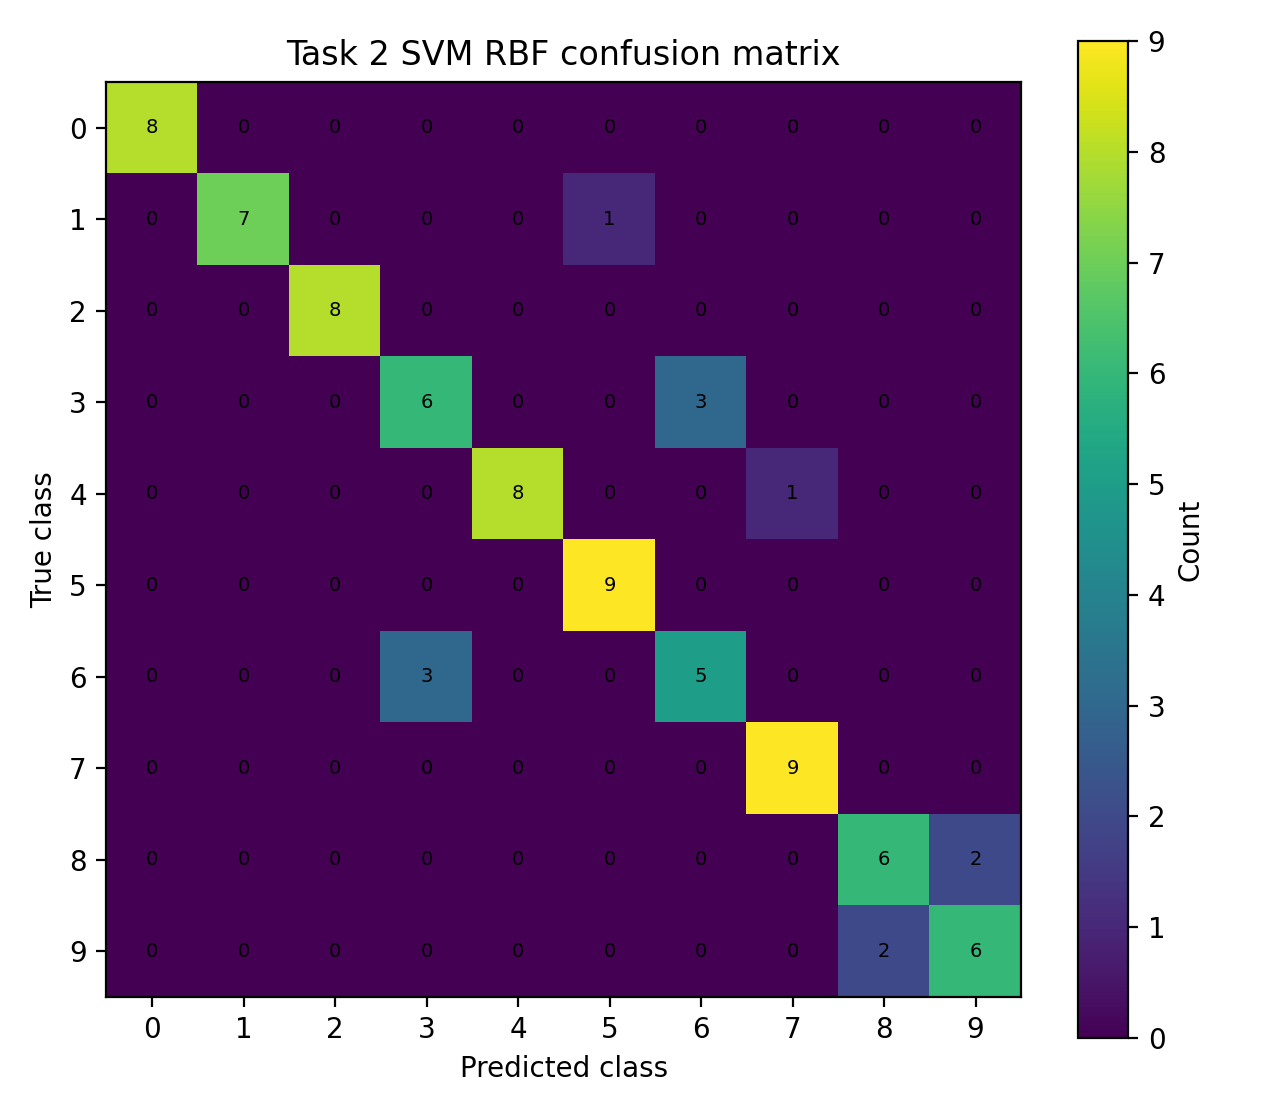
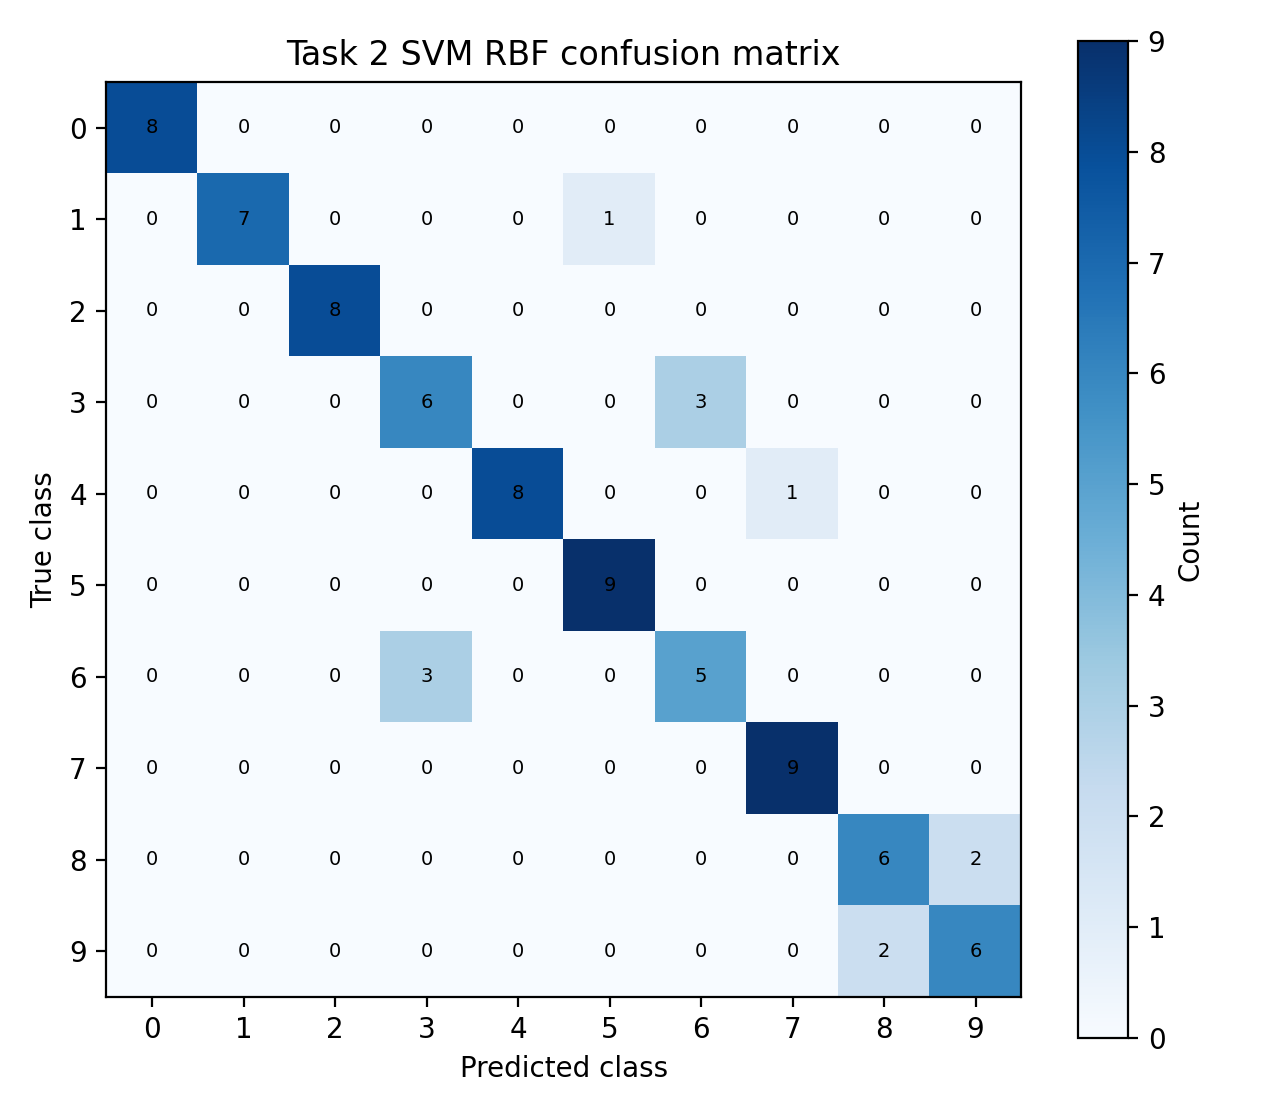
new figure

diff --git a/generate_report_figures.py b/generate_report_figures.py
@@ -1,10 +1,3 @@
-"""
-Generate suggested report diagrams for COMP30027 Project 2.
-Run from the folder containing this script:
-    python generate_report_figures.py
-Outputs are saved into ./report_figures/
-"""
-
 import os
 import numpy as np
 import matplotlib.pyplot as plt
@@ -74,7 +67,7 @@ def save_accuracy_chart(data, title, filename):
 
 def save_confusion_matrix(cm, title, filename):
     plt.figure(figsize=(6.4, 5.6))
-    plt.imshow(cm)
+    plt.imshow(cm, cmap="Blues")
     plt.title(title)
     plt.xlabel("Predicted class")
     plt.ylabel("True class")